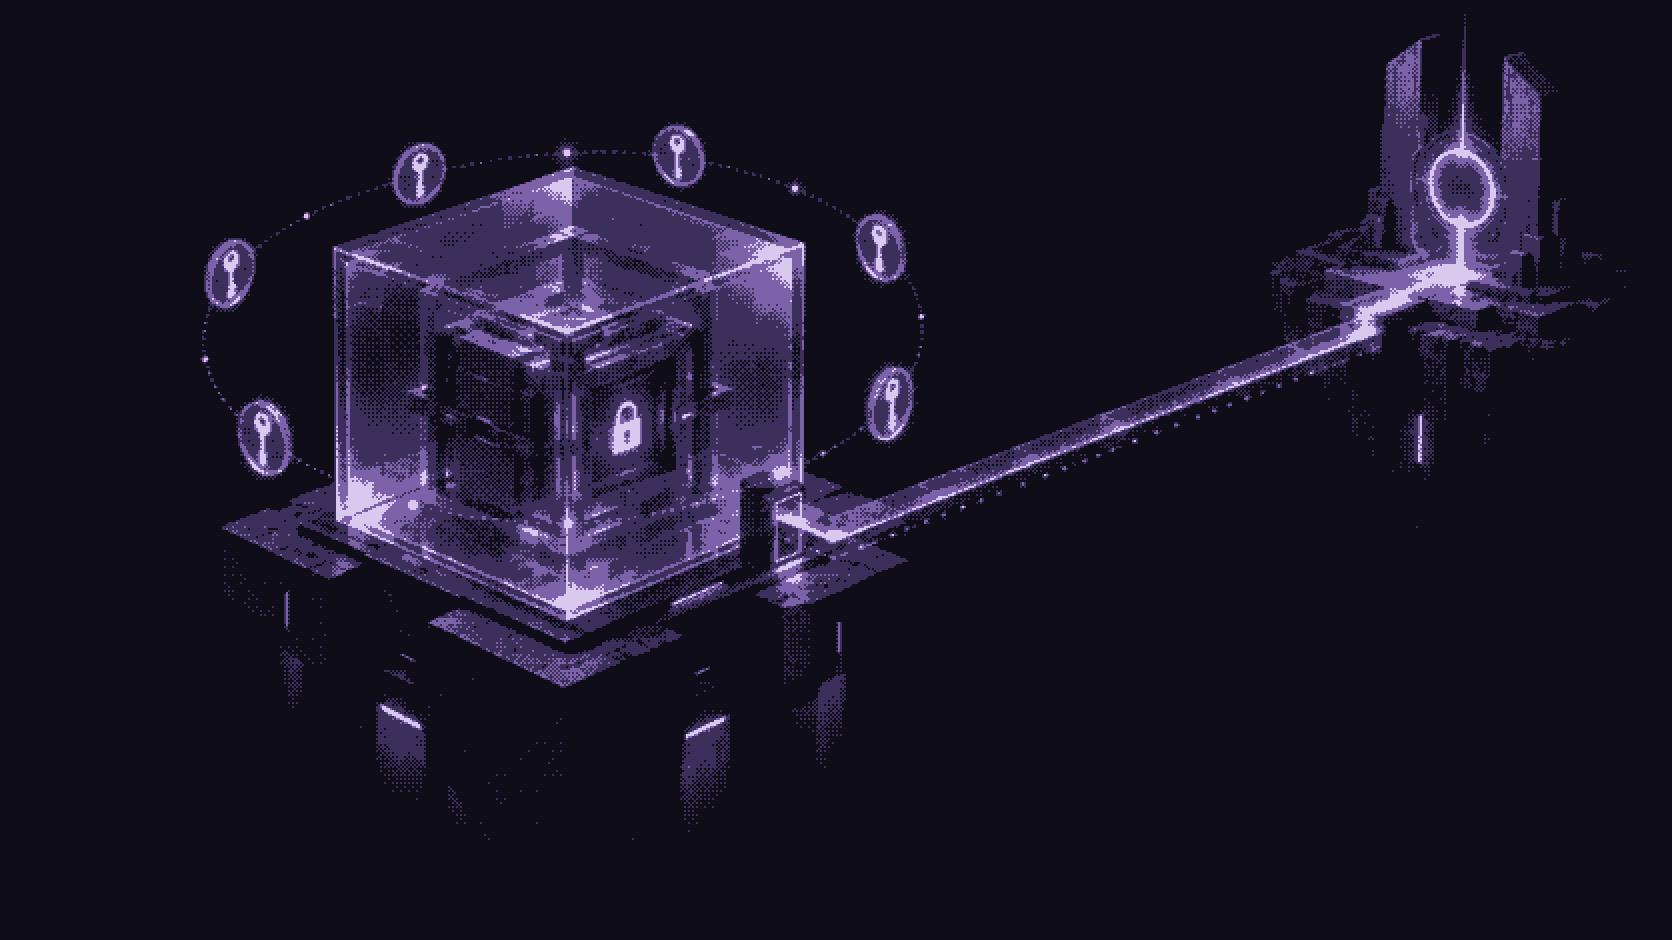
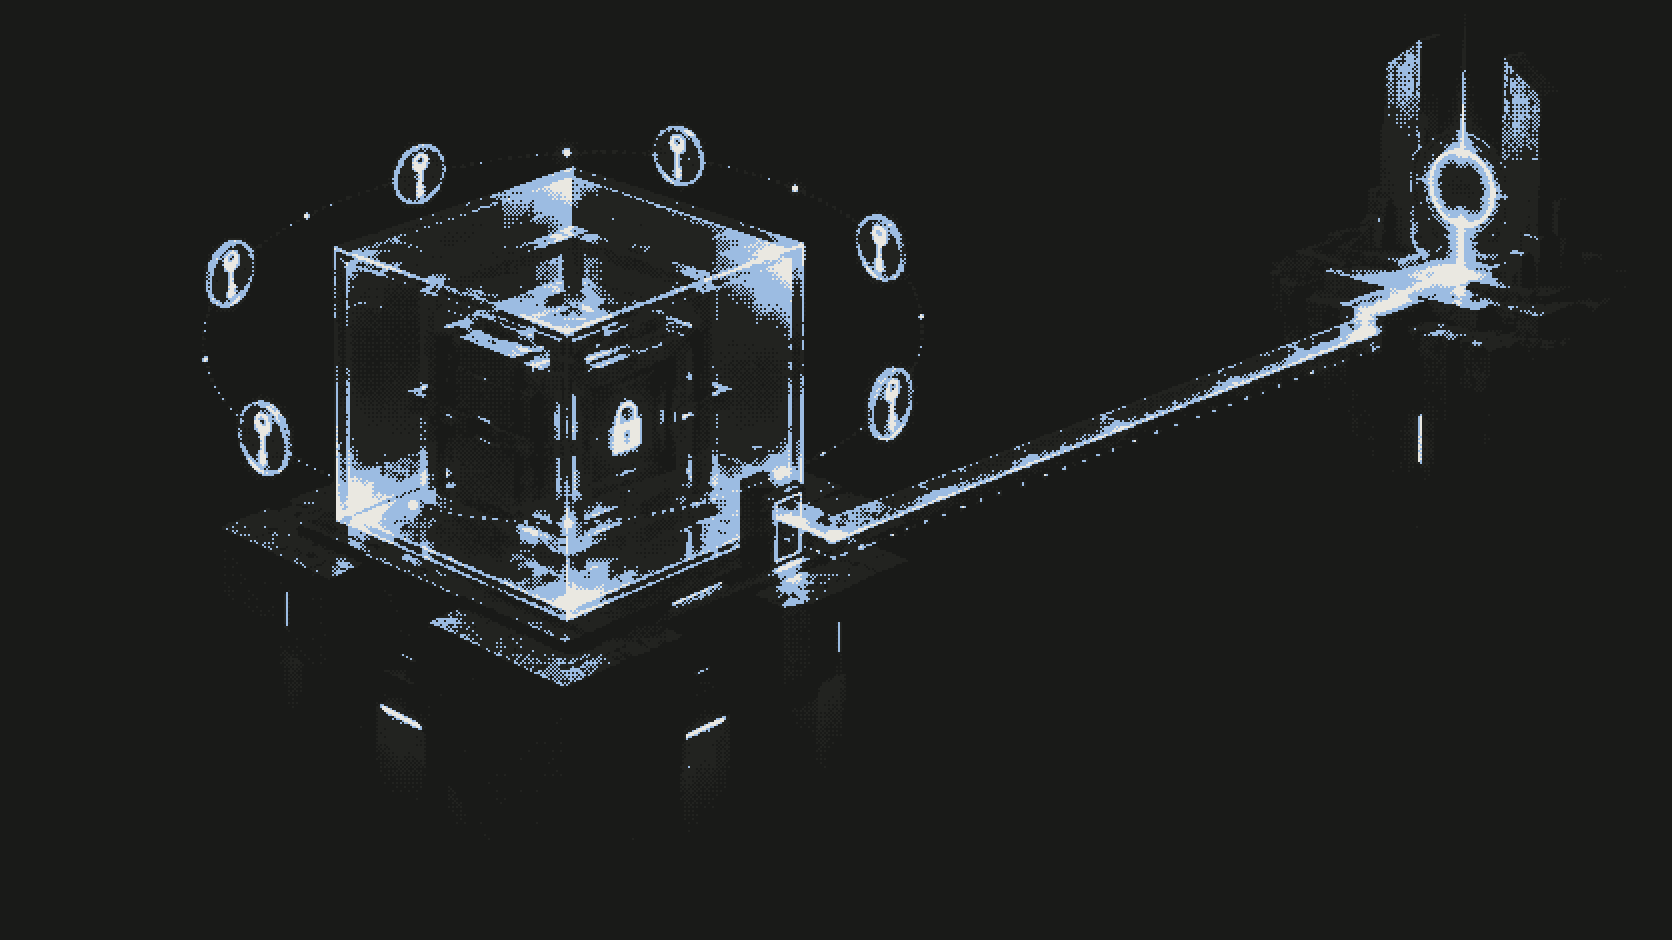
feat(web): recolor all blog images to Shiba brand tokens, fix duplicate article hero image, and align channels section with 3-color rule

diff --git a/apps/web/src/styles/blog.css b/apps/web/src/styles/blog.css
@@ -309,8 +309,9 @@ html[data-theme='dark'] .blog-filter[aria-current='true'] {
 	image-rendering: pixelated;
 }
 
-.prose > p:first-child:has(> img:only-child) {
-	display: none;
+.prose > p:first-child:has(img),
+.prose > p:first-child > img {
+	display: none !important;
 }
 
 /* Article body: a two-column measure on wide screens so the TOC sits beside the

diff --git a/.codex/skills/check-viral-product/SKILL.md b/.codex/skills/check-viral-product/SKILL.md
@@ -1,0 +1,54 @@
+---
+name: check-viral-product
+description: Evaluates a product or landing page based on Marc Lou's 32 Principles of a Viral Product. Use when checking if an AI agent, tool, or SaaS product is ready to launch or optimize conversions.
+---
+
+# Viral Product Checklist (Marc Lou's 32 Principles)
+
+When invoked, act as a ruthless landing page and product evaluator based on Marc Lou's "32 Principles of a Viral Product". Your goal is to review a given product URL, landing page, or design against these proven solopreneur strategies to maximize conversion and virality.
+
+## Evaluation Criteria: The 32 Principles
+
+1. **No Free Plan**: Free users increase support/server costs. Remove your free plan.
+2. **Three Colors**: Every color fights for attention. Use black text, white background, one color for the CTA (or in dark mode: neutral dark surface, light text, one brand accent color). No competing secondary colors.
+3. **Numbers instead of Adjectives**: e.g., "Save 4 hours every week" instead of "Fast".
+4. **Shareable Footer**: 97% won't buy, but might share. Finish strong.
+5. **OG Image as YouTube Thumbnail**: Design the Open Graph image to be clickable.
+6. **One Idea Per Screen**: Don’t say everything at once. One screen = one message.
+7. **Simple Headline**: Complexity kills curiosity. A fifth grader should understand it.
+8. **Hard Paywall**: Ask for payment before asking for data.
+9. **Unique Copy**: Write from experience. If a competitor can copy-paste it, it's too generic.
+10. **Show Before Explaining**: A demo/GIF communicates more than paragraphs. Show, don't tell.
+11. **Does One Thing**: People remember the tool that solved their specific problem. Be known for one thing.
+12. **Popcorn Pricing**: Keep it to three choices (Good, Better, Best).
+13. **Rides a Wave**: Build around trends people are already discussing.
+14. **Steals Copy from Customers**: Write like your customers talk.
+15. **Visible Founder**: A screen recording from the founder beats a corporate promo video. Show your face.
+16. **Impossible to Miss Pricing**: Put “Pricing” in the header.
+17. **Memorable Headline**: Write 5, ask friends, use the one they remember 24 hours later.
+18. **Emotional Headline**: Make people laugh, say wow, or feel something.
+19. **Does Something Unseen**: Nobody shares a clone. Surprise people.
+20. **Sold from Hero Section**: 80% won't scroll. Fix the hero first.
+21. **Empathy Before Selling**: Describe the problem better than the user can.
+22. **One Call to Action (CTA)**: Give people one next step. Just one.
+23. **Memorable Name**: Avoid wordplay or made-up words. Use words people know.
+24. **Sells Human Desire, Not Feature**: Sell more time/money/status/health, not features.
+25. **Try Before Buying**: Let people play before they pay (interactive demos on the landing page).
+26. **No Weak Words**: Make statements, not estimates. Avoid words like "most", "many", "rarely".
+27. **No Subscription (if possible)**: One-time payments are 10x easier to sell.
+28. **Descriptive CTA**: "Analyze My Website" instead of "Get Started". Remove uncertainty.
+29. **Testimonials**: Collect proof before driving traffic.
+30. **Described in Under 10 Words**: If you can't explain it in one sentence, your users won't either.
+31. **Compares to Competitors**: Use a comparison table to make the decision to switch obvious.
+32. **More Expensive**: Nobody talks about the second cheapest option. Charge more.
+
+## How to Execute
+
+1. If given a URL, examine the landing page markup and layout.
+2. If given a screenshot or design artifact, analyze its visual hierarchy and color discipline.
+3. Output an assessment detailing exactly which principles the product **PASSES** and which it **FAILS**. 
+4. Don't overwhelm the user—focus on the most critical violations first (e.g., Hero section, 3 Colors rule, CTA, Pricing, Complexity).
+5. Provide concrete, actionable steps to fix any failures.
+
+Always end your evaluation with a direct, "Just Ship It"-style verdict.
+
